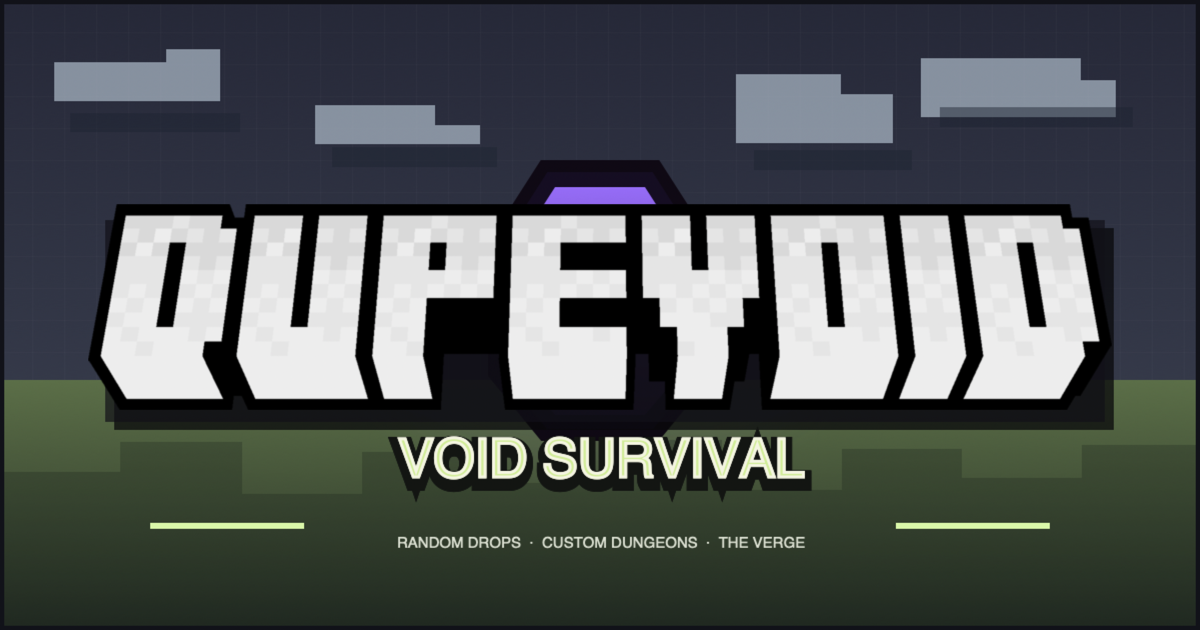
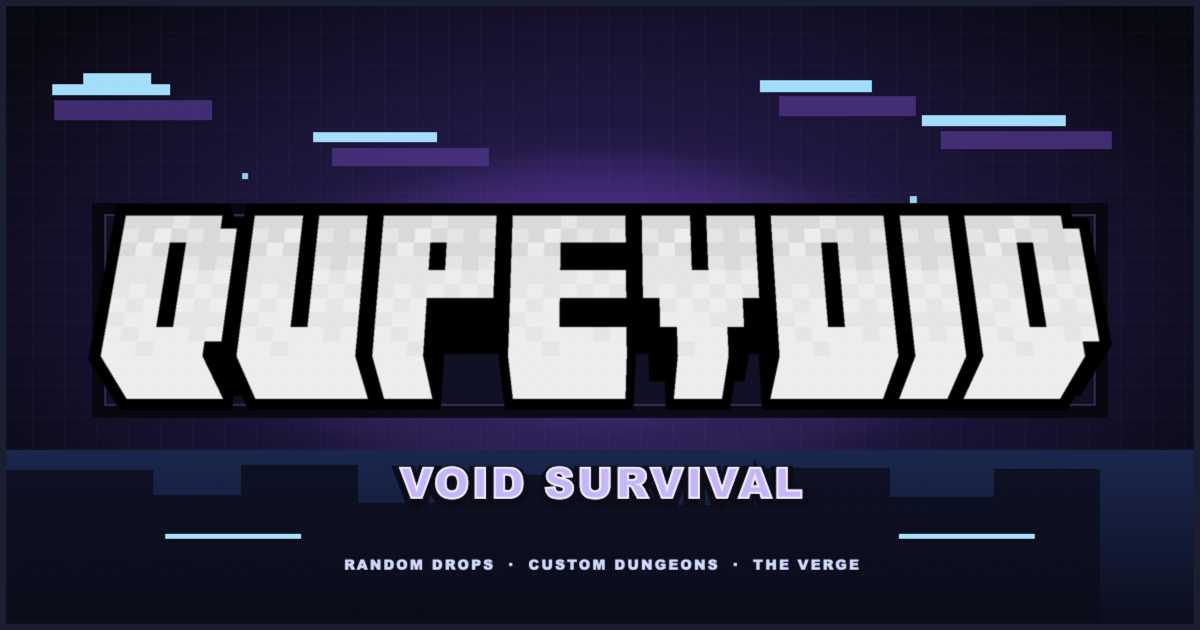
Shift Dupevoid site to void palette

diff --git a/index.html b/index.html
@@ -1,6 +1,8 @@
 <!doctype html>
 <html lang="en"><head><meta charset="utf-8"><meta name="viewport" content="width=device-width,initial-scale=1"><meta name="description" content="Dupevoid is a custom Minecraft void-survival server."><meta property="og:title" content="Dupevoid — Each Drop Changes the Plan"><meta property="og:image" content="https://dupevoid.net/assets/og.png"><title>Dupevoid — Each Drop Changes the Plan</title><style>
 @font-face{font-family:Mine;src:url("assets/fonts/MinecraftRegular-Bmg3.otf")}@font-face{font-family:Mine;src:url("assets/fonts/MinecraftBold-nMK1.otf");font-weight:800}:root{--ink:#151411;--ash:#ded6c4;--muted:#aaa192;--lime:#9bd355;--mint:#d3f9a0;--violet:#b889ff;--shell:min(1160px,calc(100% - 48px))}*{box-sizing:border-box}html{scroll-behavior:smooth;background:var(--ink)}body{margin:0;color:var(--ash);background:#171613;font:15px/1.5 Mine,monospace}a{color:inherit;text-decoration:none}.shell{width:var(--shell);margin:auto}.topbar{height:76px;display:flex;justify-content:space-between;align-items:center;padding:0 max(24px,calc((100vw - 1160px)/2));background:#171613;border-bottom:3px solid #060605;position:relative;z-index:5}.brand img{display:block;width:150px;height:48px;object-fit:contain;filter:drop-shadow(2px 3px #000)}nav{display:flex;gap:30px;text-transform:uppercase;font-size:12px;color:#bdb4a5}nav a:hover,.footer a:hover{color:var(--lime)}.discord-link{font-size:12px;text-transform:uppercase;color:var(--mint);border-bottom:2px solid var(--lime);padding-bottom:3px}.hero{min-height:650px;position:relative;overflow:hidden;background:radial-gradient(ellipse at 68% 40%,#503560,#281f35 35%,#17151c 72%);border-bottom:5px solid #080807}.hero:before{content:"";position:absolute;inset:0;opacity:.45;background-image:linear-gradient(30deg,#ffffff08 12%,transparent 12.5%,transparent 87%,#ffffff08 87.5%),linear-gradient(150deg,#ffffff08 12%,transparent 12.5%,transparent 87%,#ffffff08 87.5%);background-size:42px 73px}.hero-content{position:relative;z-index:2;padding-top:110px}.eyebrow,.section-kicker{margin:0 0 16px;font-size:12px;color:var(--lime);text-transform:uppercase;letter-spacing:1px;font-weight:800}.pulse,.online-dot{width:9px;height:9px;display:inline-block;border-radius:1px;background:var(--lime);box-shadow:0 0 14px var(--lime);margin-right:7px}h1,h2,h3,p{margin-top:0}h1,h2,h3{font-weight:800;line-height:.97;letter-spacing:.5px}h1{font-size:clamp(52px,8vw,112px);color:#f3eee4;text-shadow:6px 7px #161316,9px 10px #000;margin:0}h1 em,h2 span{color:var(--lime);font-style:normal}.hero-copy{font-size:18px;max-width:490px;margin:28px 0;color:#d6cec1}.hero-actions{display:flex;gap:13px;flex-wrap:wrap}.button{display:inline-flex;cursor:pointer;align-items:center;justify-content:center;gap:12px;padding:14px 20px 12px;border:3px solid #111;text-transform:uppercase;font:800 13px Mine,monospace;box-shadow:4px 4px #090909;transition:.15s}.button:hover{transform:translate(2px,2px);box-shadow:2px 2px #090909}.green{background:var(--lime);color:#1e2715}.dark{background:#302d29;color:#f6efdf;border-color:#6b6259}.light{background:#f3eedf;color:#211d18;border-color:#fff}.server-address{margin:26px 0 0;color:#c8beae;font-size:13px}.server-address span{color:var(--lime);margin-right:10px}.hero-strip{position:absolute;z-index:2;bottom:0;width:100%;background:#10100f;border-top:3px solid #6d6560;padding:14px 0;text-align:center;color:#d9d1c4;font-size:11px;word-spacing:14px}.hero-strip b{color:var(--violet)}.float{position:absolute;display:block}.block{width:19px;height:19px;background:#bfa1de;box-shadow:4px 4px #574367}.b1{top:17%;right:18%}.b2{top:34%;right:7%;transform:scale(.6)}.b3{top:20%;right:40%;transform:scale(.45)}.island{background:#453b31;box-shadow:0 8px #24201d,14px 5px #322c26,-10px 5px #322c26}.i1{width:160px;height:34px;right:10%;bottom:25%}.i2{width:85px;height:22px;right:37%;bottom:18%;transform:scale(.75)}.section{padding:112px 0}.intro-grid{display:grid;grid-template-columns:1.1fr .9fr;gap:80px;align-items:end}.intro h2,.systems h2,.journey h2,.community h2{font-size:clamp(40px,5vw,70px);margin:0}.intro p{color:#b8afa1;font-size:17px}.intro code{color:var(--lime);background:#292a1f;padding:2px 4px}.systems{background:#24221f;padding:100px 0 120px;border-top:3px solid #534e48;border-bottom:3px solid #0b0b09}.systems-heading{display:flex;align-items:end;justify-content:space-between;gap:50px;margin-bottom:40px}.systems-heading>p{max-width:315px;color:#aaa195}.card-grid{display:grid;grid-template-columns:repeat(3,1fr);gap:17px}.feature-card{min-height:330px;position:relative;overflow:hidden;padding:26px;border:3px solid #0f0e0d;box-shadow:5px 5px #111}.drops{background:linear-gradient(145deg,#4e5738,#30352a)}.dungeon{background:linear-gradient(145deg,#4d3948,#332732)}.verge{background:linear-gradient(145deg,#3d4e58,#29353d)}.card-number{color:#e9dfcd99;font-size:12px}.pixel{width:48px;height:48px;margin:34px 0 23px}.box{background:linear-gradient(135deg,#f4d97a 0 47%,#a87a2a 48%);box-shadow:8px 8px #514221}.gate{border:9px solid #c995ed;box-shadow:inset 0 0 0 9px #604175,8px 8px #27192c}.rift{background:#b1ebee;clip-path:polygon(49% 0,70% 34%,100% 51%,70% 66%,48% 100%,29% 66%,0 49%,29% 34%);box-shadow:8px 8px #386b70}.feature-card h3{font-size:25px;margin:0 0 10px;color:#fff8ec}.feature-card p{color:#ded6ca;max-width:275px}.card-tag{position:absolute;bottom:23px;color:#f4f2e5;font-size:10px}.journey{padding:120px 0;display:grid;grid-template-columns:1fr 1fr;gap:90px;align-items:center}.journey-art{height:460px;position:relative;background:linear-gradient(150deg,#a8d978,#6c9c5a 48%,#424d46 49%);overflow:hidden;border:5px solid #111;box-shadow:8px 8px #080808}.ground{position:absolute;bottom:0;width:100%;height:37%;background:repeating-linear-gradient(90deg,#514632 0 33px,#66573d 33px 66px);clip-path:polygon(0 25%,25% 7%,50% 28%,70% 0,100% 22%,100% 100%,0 100%)}.portal{position:absolute;width:154px;height:230px;left:50%;top:50%;transform:translate(-50%,-46%);border:15px solid #463a35;box-shadow:inset 0 0 0 7px #16151c,14px 10px #3e352c;background:repeating-linear-gradient(135deg,#a66cff 0 9px,#55337d 9px 18px)}.portal span{position:absolute;inset:20px;border:5px solid #d5bbff;opacity:.8}.journey-copy ol{padding:0;margin:28px 0;list-style:none}.journey-copy li{display:flex;gap:17px;padding:14px 0;border-top:2px solid #4a453e}.journey-copy li strong{color:var(--lime);font-size:20px}.journey-copy li b,.journey-copy li small{display:block}.journey-copy li small{color:var(--muted);font-size:13px}.community{padding:95px 0;background:#94c955;color:#1f2919;border-top:5px solid #efffa2;border-bottom:5px solid #111}.community-inner{display:flex;justify-content:space-between;align-items:center;gap:60px}.community h2{color:#1f2919}.community h2 span{color:#f0ffd0;text-shadow:3px 3px #4d732f}.community-card{width:min(360px,100%);padding:26px;color:#f7f0e4;background:#292820;border:4px solid #141410;box-shadow:7px 7px #4e802f}.community-card p{color:#c6c0b3;margin:15px 0 22px}.online-dot{background:#c9ff5b}.footer{padding:48px 0;display:flex;justify-content:space-between;gap:28px;align-items:center;color:#8c8579;font-size:11px}.footer p{max-width:410px;margin:0}.footer>div{display:flex;gap:18px;text-transform:uppercase}@media(max-width:720px){.topbar{height:64px;padding:0 20px}.brand img{width:112px;height:38px}nav{display:none}.hero{min-height:610px}.hero-content{padding-top:85px}.hero-strip{line-height:2;word-spacing:4px;padding-inline:20px}.intro-grid,.journey,.card-grid{grid-template-columns:1fr}.intro-grid{gap:25px}.section,.systems{padding:72px 0}.systems-heading,.community-inner{display:block}.systems-heading>p{margin-top:22px}.feature-card{min-height:285px}.journey{padding:80px 0;gap:45px}.journey-art{height:330px}.community{padding:70px 0}.community-card{margin-top:36px}.footer{display:block}.footer p{margin:25px 0}.footer>div{flex-wrap:wrap}.float{opacity:.55}}
+/* Void palette override */
+:root{--ink:#080912;--ash:#e8eaff;--muted:#a5a9c4;--lime:#9383ff;--mint:#aeeaff;--violet:#bd77ff}body{background:#0b0d1a}.topbar{background:#0d1020;border-bottom-color:#03040a}.hero{background:radial-gradient(ellipse at 68% 40%,#46226c 0,#1e1641 35%,#090914 73%)}.hero:before{opacity:.9;background-image:radial-gradient(circle at 16% 26%,#7ad7ff 0 1px,transparent 2px),radial-gradient(circle at 78% 20%,#c28cff 0 1px,transparent 2px),radial-gradient(circle at 88% 64%,#7b7cff 0 1px,transparent 2px),linear-gradient(135deg,#ffffff08 12%,transparent 12.5%,transparent 87%,#ffffff08 87.5%);background-size:93px 109px,137px 131px,121px 117px,42px 73px}.block{background:#70cfff;box-shadow:4px 4px #3e3390}.island{background:#2a235a;box-shadow:0 8px #120e2d,14px 5px #1b1642,-10px 5px #1b1642}.systems{background:#101124;border-top-color:#4d4679;border-bottom-color:#05050b}.drops{background:linear-gradient(145deg,#253f84,#17245a)}.dungeon{background:linear-gradient(145deg,#5a3188,#2d174f)}.verge{background:linear-gradient(145deg,#174269,#10233f)}.journey-art{background:radial-gradient(circle at 52% 35%,#7d58e8 0,#262264 30%,#0a1023 71%);border-color:#05050b}.ground{background:repeating-linear-gradient(90deg,#1d2b57 0 33px,#312466 33px 66px)}.portal{border-color:#211943;box-shadow:inset 0 0 0 7px #070812,14px 10px #100d26}.community{background:linear-gradient(115deg,#203d9a,#5a2993);color:#eef0ff;border-top-color:#b6a4ff}.community h2{color:#f2f4ff}.community h2 span{color:#aeeaff;text-shadow:3px 3px #29398d}.community-card{background:#111329;border-color:#080914;box-shadow:7px 7px #27105a}.community-card p{color:#b9c0de}.online-dot{background:#70dfff}.light{background:#c9edff;color:#11142a;border-color:#f4fbff}.dark{background:#201a45;border-color:#7168b5}.intro code{color:#bcb5ff;background:#201b44}.hero-strip{background:#070812;border-top-color:#443d72}.footer{color:#9297bb}
 </style></head><body>
 <header class="topbar"><a class="brand" href="#top"><img src="assets/dupevoid-logo.png" alt="Dupevoid"></a><nav><a href="#about">About</a><a href="#worlds">Worlds</a><a href="#begin">Start here</a></nav><a class="discord-link" href="#community">Community ↗</a></header><main><section class="hero" id="top"><i class="float block b1"></i><i class="float block b2"></i><i class="float block b3"></i><i class="float island i1"></i><i class="float island i2"></i><div class="hero-content shell"><p class="eyebrow"><span class="pulse"></span>Java server · Online now</p><h1>EACH DROP<br><em>CHANGES THE PLAN.</em></h1><p class="hero-copy">A custom void-survival world built around chance, discovery, and the things you dare to bring home.</p><div class="hero-actions"><button class="button green copy">Copy server IP</button><a class="button dark" href="#begin">How to play ↓</a></div><p class="server-address"><span>PLAY</span>dupevoid.net</p></div><div class="hero-strip">RANDOM DROPS <b>✦</b> CUSTOM DUNGEONS <b>✦</b> DAILY VERGE <b>✦</b> BUILD THE VOID <b>✦</b></div></section>
 <section class="intro section shell" id="about"><p class="section-kicker">WELCOME TO THE FRACTURE</p><div class="intro-grid"><h2>YOUR FIRST BLOCK<br>IS ONLY THE <span>BEGINNING.</span></h2><div><p>Every Dupevoid player begins above an endless drop. A random item arrives every ten seconds. What you build with it is up to you.</p><p>Echo everyday items with <code>/dupe</code>, then earn the rare things: dungeon keys, relics, Marks, and a place in the world.</p></div></div></section>
